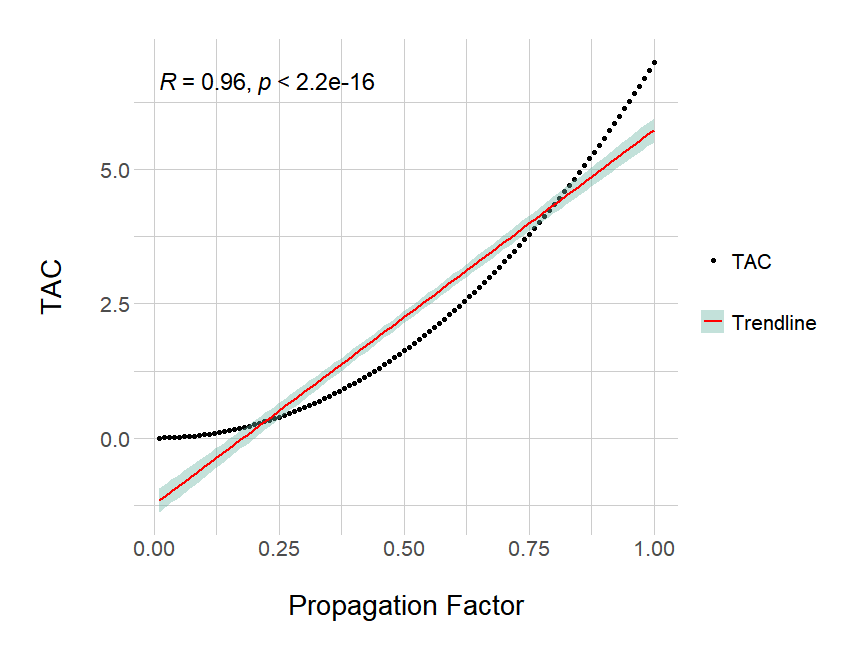
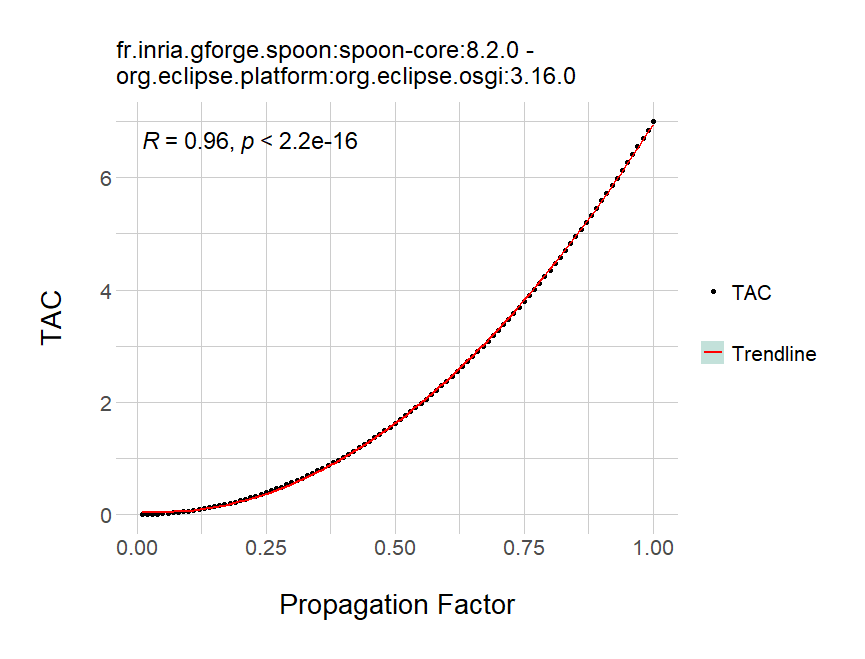
Add subfigures for 5.2 and 5.3, and change captions

diff --git a/Thesis/sections/5.Experiments.tex b/Thesis/sections/5.Experiments.tex
@@ -305,20 +305,32 @@ With the data obtained from running the experiment, we calculate the covariance 
 \end{table}
 
 \unsure{Here, should I add a table with all the coefficients? Or maybe add them to the previous table?}
-In addition, we also calculate the \textit{Pearson correlation coefficient} \cite{everitt2002cambridge}. The values of the correlation range from $0.941282$ to $1$ for \texttt{TMIC}, and from $0.9446$ to $1$ for \texttt{TAC}. Figures \ref{fig:correlation-tmic} and \ref{fig:correlation-tac} show the correlation between the \textit{propagation factor} and the values of the metrics \texttt{TMIC} and \texttt{TAC} for the client library \textit{fr.inria.gforge.spoon:spoon-core:8.2.0} and the server library \textit{org.eclipse.platform:org.eclipse.osgi:3.16.0}.
+In addition, we also calculate the \textit{Pearson correlation coefficient} \cite{everitt2002cambridge}. The values of the correlation range from $0.941282$ to $1$ for \texttt{TMIC}, and from $0.9446$ to $1$ for \texttt{TAC}. Figures \ref{fig:correlation-tmic} and \ref{fig:correlation-tac} show the a plot with the values of the metrics \texttt{TMIC} and \texttt{TAC} as a function of \textit{propagation factor}. On the left side, for the client library \textit{fr.inria.gforge.spoon:spoon-core:8.2.0} and the server library \textit{org.eclipse.platform:org.eclipse.osgi:3.16.0}, and on the right side for \textit{org.easymock:easymock:4.2} and \textit{org.hamcrest:hamcrest-core:1.3}.
 
 \begin{figure}[ht!]
 \begin{center}
-\includegraphics[width=0.75\textwidth]{figures/results/Rplot_spoon-core_eclipse-osgi_TMIC.png}
-\caption{Plot \textit{propagation factor} vs \texttt{TMIC}, with regression line. \textit{R} is the Pearson correlation coefficient, and \textit{p} corresponds to the confidence interval}
+  \begin{subfigure}[b]{0.48\textwidth}
+    \includegraphics[width=\textwidth]{figures/results/Rplot_spoon-core_eclipse-osgi_TMIC.png}
+  \end{subfigure}
+  %
+  \begin{subfigure}[b]{0.48\textwidth}
+    \includegraphics[width=\textwidth]{figures/results/Rplot_easymock_hamcrest_TMIC.png}
+  \end{subfigure}
+\caption{\texttt{TMIC} as a function of the \textit{propagation factor}, with regression line. \textit{R} is the Pearson correlation coefficient, and \textit{p} corresponds to the confidence interval}
 \label{fig:correlation-tmic}
 \end{center}
 \end{figure}
 
 \begin{figure}[ht!]
 \begin{center}
-\includegraphics[width=0.75\textwidth]{figures/results/Rplot_spoon-core_eclipse-osgi_TAC.png}
-\caption{Plot \textit{propagation factor} vs \texttt{TAC}, with regression line. \textit{R} is the Pearson correlation coefficient, and \textit{p} corresponds to the confidence interval}
+  \begin{subfigure}[b]{0.48\textwidth}
+    \includegraphics[width=\textwidth]{figures/results/Rplot_spoon-core_eclipse-osgi_TAC.png}
+  \end{subfigure}
+  %
+  \begin{subfigure}[b]{0.48\textwidth}
+    \includegraphics[width=\textwidth]{figures/results/Rplot_easymock_hamcrest_TAC.png}
+  \end{subfigure}
+\caption{\texttt{TAC} as a function of the \textit{propagation factor}, with regression line. \textit{R} is the Pearson correlation coefficient, and \textit{p} corresponds to the confidence interval}
 \label{fig:correlation-tac}
 \end{center}
 \end{figure}
@@ -336,7 +348,7 @@ In Table \ref{table:covariance-sensitivity}, we can see that the values of the c
 \begin{figure}[ht!]
 \begin{center}
 \includegraphics[width=0.7\textwidth]{figures/results/covariance-values-tmic.png}
-\caption{Plot of the sumation of the coupling measured at each distance (\texttt{DTMIC}) vs the covariance of \textit{propagation factor} and \texttt{TMIC}. \textit{p} corresponds to the confidence interval}
+\caption{Covariance of \textit{propagation factor} and \texttt{TMIC} as a functiobn of the sumation of the coupling measured at each distance (\texttt{DTMIC}). \textit{p} corresponds to the confidence interval}
 \label{fig:cov-value-tmic}
 \end{center}
 \end{figure}
@@ -344,7 +356,7 @@ In Table \ref{table:covariance-sensitivity}, we can see that the values of the c
 \begin{figure}[ht!]
 \begin{center}
 \includegraphics[width=0.7\textwidth]{figures/results/covariance-values-tac.png}
-\caption{Plot of the sumation of the coupling measured at each distance (\texttt{DTAC}) vs the covariance of \textit{propagation factor} and \texttt{TAC}. \textit{p} corresponds to the confidence interval}
+\caption{Covariance of \textit{propagation factor} and \texttt{TAC} as a functiobn of the sumation of the coupling measured at each distance (\texttt{DTAC}). \textit{p} corresponds to the confidence interval}
 \label{fig:cov-value-tac}
 \end{center}
 \end{figure}
@@ -354,7 +366,7 @@ Finally, in the results of the correlation coefficient between the propagation f
 \begin{figure}[ht!]
 \begin{center}
 \includegraphics[width=0.7\textwidth]{figures/results/correlation_max_distance_TMIC.png}
-\caption{Plot of the maximum distance at which coupling is measured vs the correlation of \textit{propagation factor} and \texttt{TMIC}. \textit{p} corresponds to the confidence interval}
+\caption{The correlation between \textit{propagation factor} and \texttt{TMIC} as a function of the maximum distance at which coupling is measured. \textit{p} corresponds to the confidence interval}
 \label{fig:cor-dist-tmic}
 \end{center}
 \end{figure}
@@ -362,7 +374,7 @@ Finally, in the results of the correlation coefficient between the propagation f
 \begin{figure}[ht!]
 \begin{center}
 \includegraphics[width=0.7\textwidth]{figures/results/correlation_max_distance_TAC.png}
-\caption{Plot of the maximum distance at which coupling is measured vs the correlation of \textit{propagation factor} and \texttt{TAC}. \textit{p} corresponds to the confidence interval}
+\caption{The correlation between \textit{propagation factor} and \texttt{TAC} as a function of the maximum distance at which coupling is measured. \textit{p} corresponds to the confidence interval}
 \label{fig:cor-dist-tac}
 \end{center}
 \end{figure}
